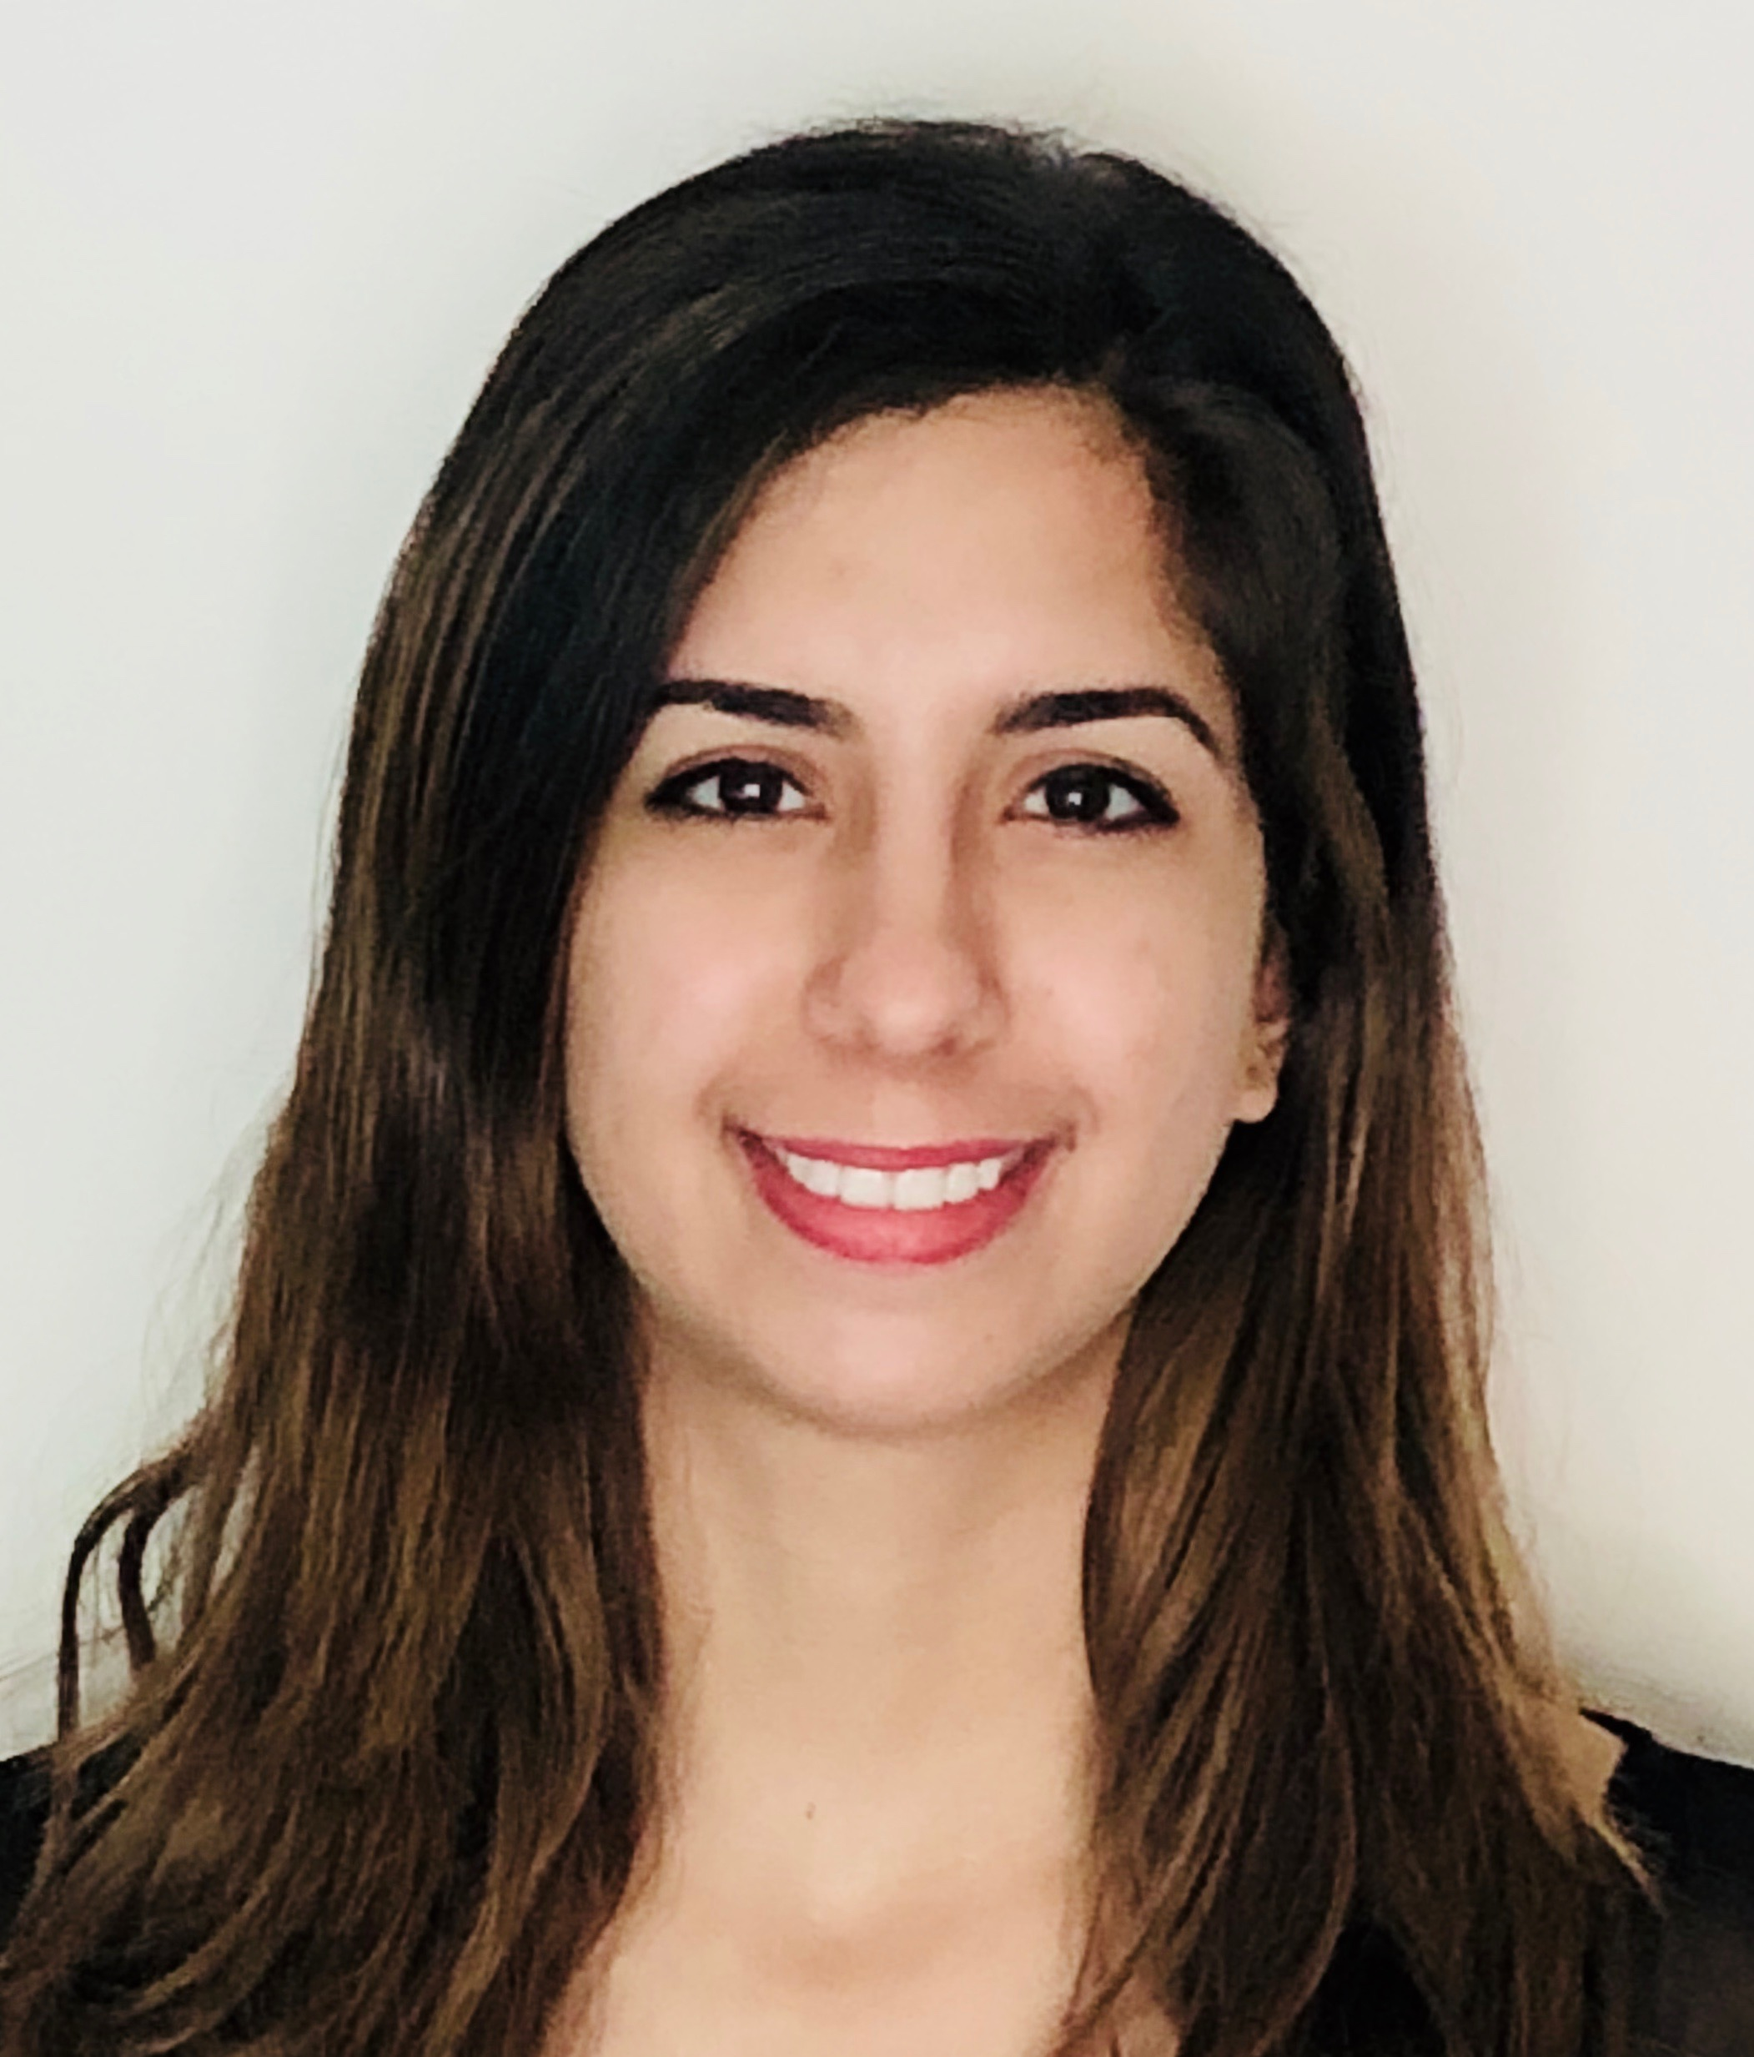
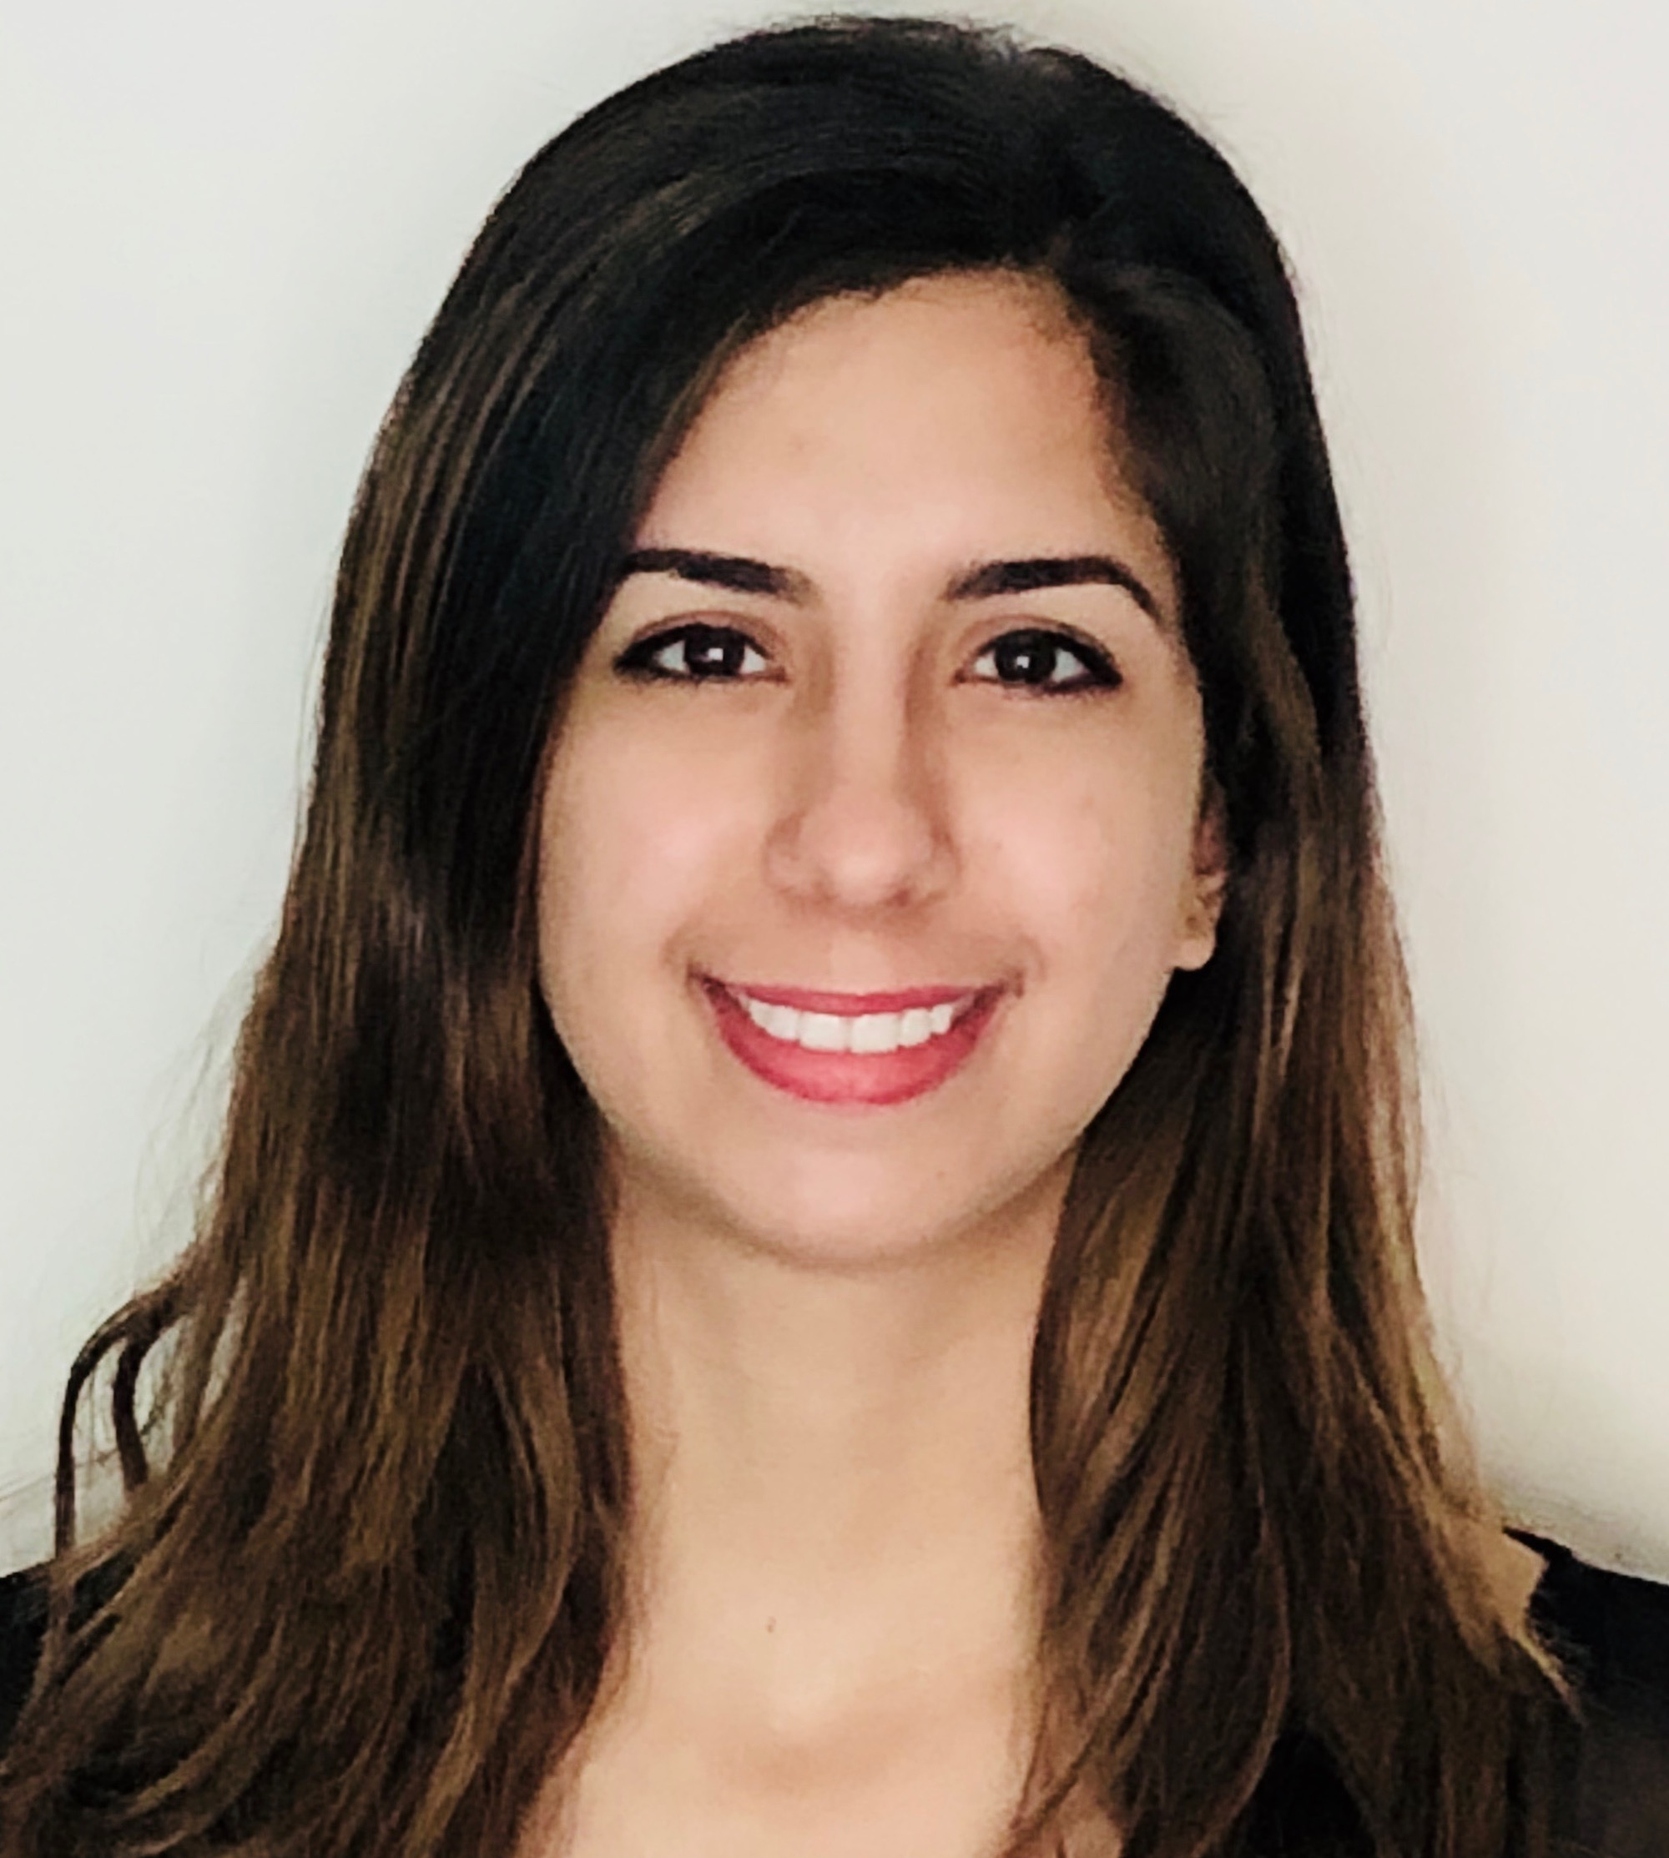
resizing photos to more similar sizes, and making them round

diff --git a/about.html b/about.html
@@ -3,13 +3,22 @@
   <head>
     <meta charset="utf-8">
     <title>About eDoc education</title>
+    <link href='css/bootstrap.css' rel='stylesheet'>
+    <link rel="stylesheet" type="text/css" href="about.css">
+    <link href='https://fonts.googleapis.com/css?family=Patrick Hand' rel='stylesheet'>
   </head>
   <body>
     <div>
-      <img id="" src="Sara.jpeg" width="220px"; height="250px" alt="Sara" class="center">
+      <img id="EdocLogo1" src="EdocLogo1.jpeg" alt="EdocLogo1" class="center">
     </div>
-    <p>
+    <h1>
       Who We Are
-    </p>
+    </h1>
+    <div>
+      <img id="Sara" src="Sara.jpeg" width="220px"; height="250px" alt="Sara" class="center">
+    </div>
+    <div class="">
+      <img id="Roshni" src="roshni_photo.jpg" width="220px" alt="Roshni" class="center">
+    </div>
   </body>
 </html>

diff --git a/about.css b/about.css
@@ -1,0 +1,21 @@
+#EdocLogo1 {
+  mix-blend-mode: multiply;
+  display: block;
+  margin-left: auto;
+  margin-right: auto;
+  margin-top: 50px;
+  margin-bottom: 50px;
+}
+body {
+  background-color: rgb(174, 214, 241);
+  font-family: 'Patrick Hand';
+}
+h1 {
+  text-align: center;
+}
+#Sara {
+  border-radius: 50%;
+}
+#Roshni {
+  border-radius: 50%;
+}
